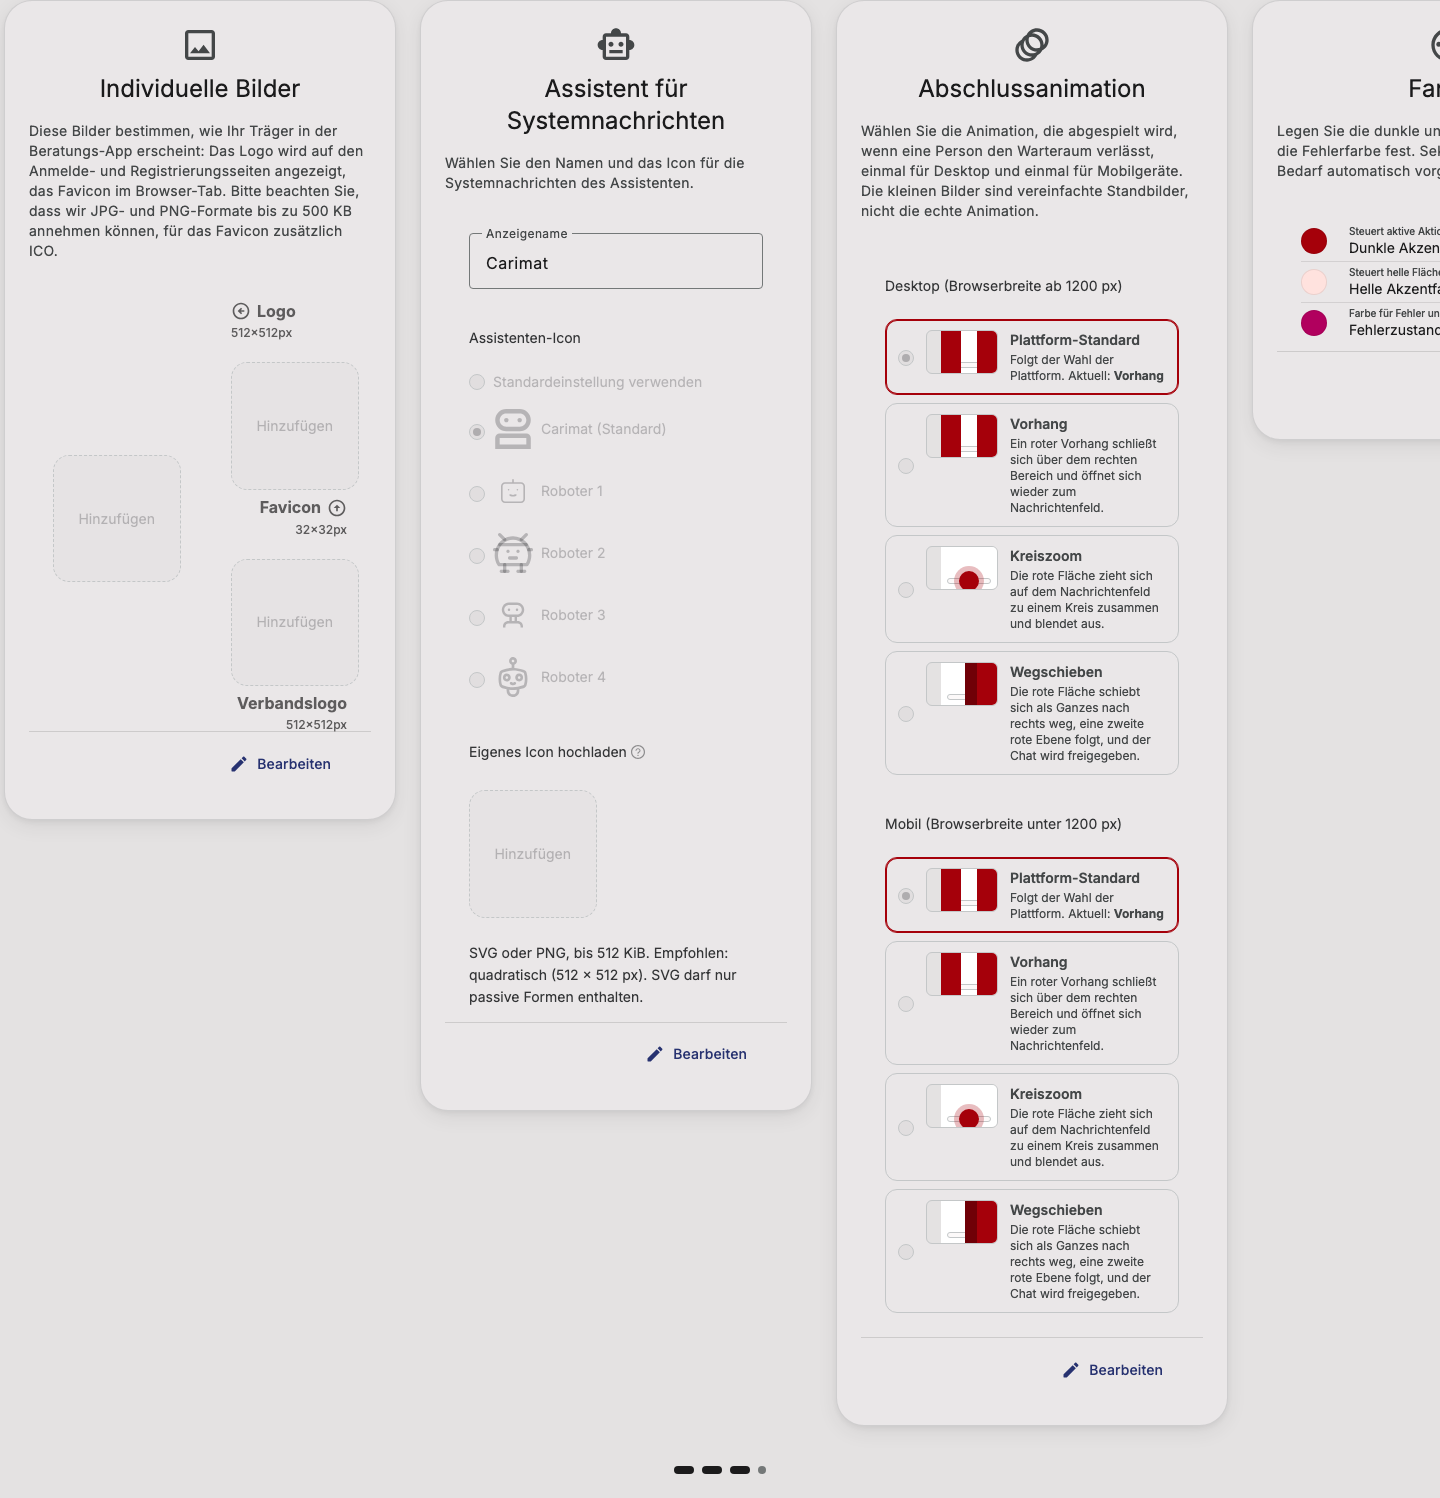
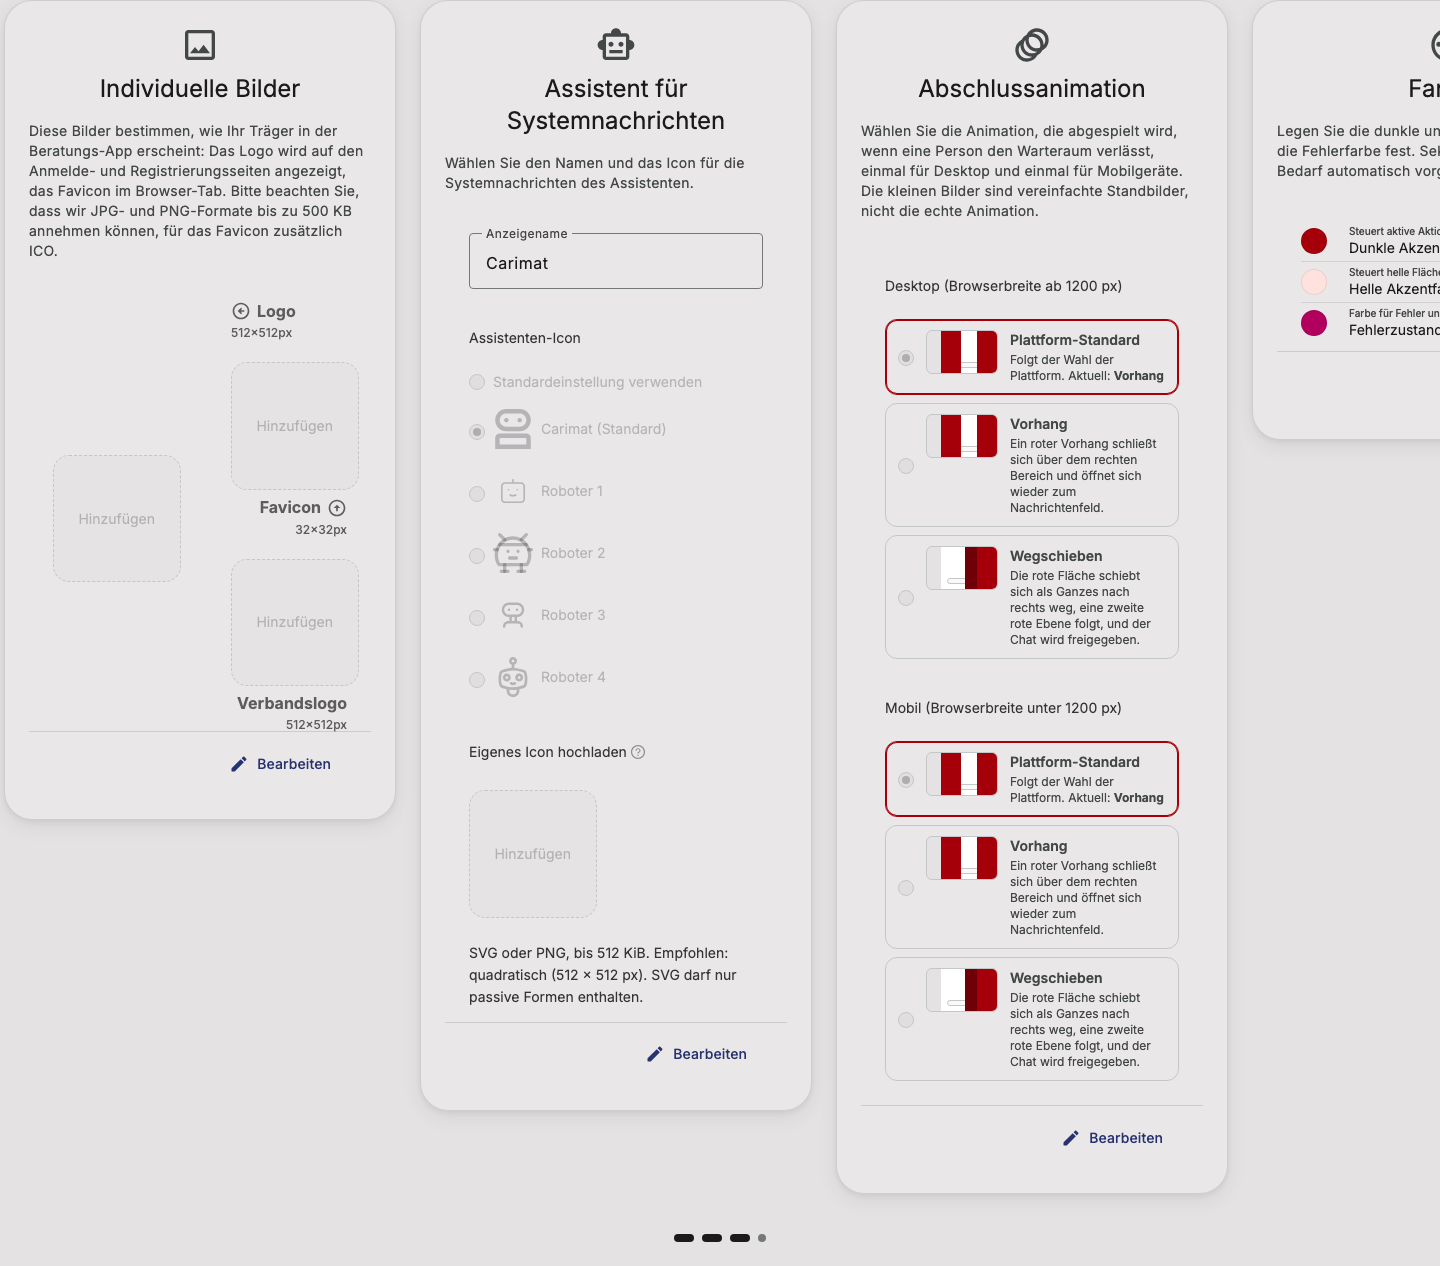
fix(appearance): drop the circle-zoom design from the closing-animation card (ORISO-Frontend#1737)
The design is gone from the frontend and the service, so the card offers
Platform default, Curtain and Slide reveal only. A tenant that still has
CIRCLE_ZOOM stored shows as Platform default and is left alone unless the
administrator changes that device. Strings removed in all seven locales,
stories and tests updated (a regression test covers the stored former
design), the three "after" screenshots re-shot.

diff --git a/src/components/Tenants/GeneralSettings/components/ClosingAnimation/index.test.tsx b/src/components/Tenants/GeneralSettings/components/ClosingAnimation/index.test.tsx
@@ -59,23 +59,21 @@ const inheritedAs = (desktop: Choice, mobile: Choice, id = 1) => {
 };
 
 describe('closing animation Appearance card', () => {
-    it('offers one choice for desktop and one for mobile: the platform default plus the three designs', () => {
+    it('offers one choice for desktop and one for mobile: the platform default plus the two designs', () => {
         render(<ClosingAnimation tenantId="1" />);
         expect(screen.getAllByRole('radiogroup')).toHaveLength(2);
         (['desktop', 'mobile'] as const).forEach((device) => {
             const radios = within(group(device)).getAllByRole('radio') as HTMLInputElement[];
-            expect(radios.map((radio) => radio.value)).toEqual(['', 'CURTAIN', 'CIRCLE_ZOOM', 'SLIDE_REVEAL']);
-            expect(
-                ['inherit', 'design.CURTAIN', 'design.CIRCLE_ZOOM', 'design.SLIDE_REVEAL'].map((label) =>
-                    choice(device, label),
-                ),
-            ).toEqual(radios);
+            expect(radios.map((radio) => radio.value)).toEqual(['', 'CURTAIN', 'SLIDE_REVEAL']);
+            expect(['inherit', 'design.CURTAIN', 'design.SLIDE_REVEAL'].map((label) => choice(device, label))).toEqual(
+                radios,
+            );
         });
     });
 
     it('describes every design in words, so the choice does not rest on a picture alone', () => {
         render(<ClosingAnimation tenantId="1" />);
-        (['CURTAIN', 'CIRCLE_ZOOM', 'SLIDE_REVEAL'] as const).forEach((design) => {
+        (['CURTAIN', 'SLIDE_REVEAL'] as const).forEach((design) => {
             expect(choice('desktop', `design.${design}`)).toHaveAccessibleDescription(
                 key(`design.${design}.description`),
             );
@@ -85,7 +83,7 @@ describe('closing animation Appearance card', () => {
     it('exposes nothing but the two choices: no toggle, text field, duration or colour', () => {
         const { container } = render(<ClosingAnimation tenantId="1" />);
         edit();
-        expect(screen.getAllByRole('radio')).toHaveLength(8);
+        expect(screen.getAllByRole('radio')).toHaveLength(6);
         ['checkbox', 'switch', 'textbox', 'spinbutton', 'slider', 'combobox'].forEach((role) => {
             expect(screen.queryAllByRole(role)).toEqual([]);
         });
@@ -93,10 +91,10 @@ describe('closing animation Appearance card', () => {
     });
 
     it('selects what the tenant stored for each device', () => {
-        fixtures.own = { closingAnimationDesktop: 'SLIDE_REVEAL', closingAnimationMobile: 'CIRCLE_ZOOM' };
+        fixtures.own = { closingAnimationDesktop: 'SLIDE_REVEAL', closingAnimationMobile: 'CURTAIN' };
         render(<ClosingAnimation tenantId="1" />);
         expect(choice('desktop', 'design.SLIDE_REVEAL')).toBeChecked();
-        expect(choice('mobile', 'design.CIRCLE_ZOOM')).toBeChecked();
+        expect(choice('mobile', 'design.CURTAIN')).toBeChecked();
         expect(choice('desktop', 'inherit')).not.toBeChecked();
         expect(choice('mobile', 'inherit')).not.toBeChecked();
     });
@@ -108,24 +106,32 @@ describe('closing animation Appearance card', () => {
         expect(choice('mobile', 'inherit')).toBeChecked();
     });
 
+    it('reads a stored design that no longer exists (circle zoom) as the platform default', () => {
+        fixtures.own = { closingAnimationDesktop: 'CIRCLE_ZOOM', closingAnimationMobile: 'CIRCLE_ZOOM' };
+        render(<ClosingAnimation tenantId="1" />);
+        (['desktop', 'mobile'] as const).forEach((device) => {
+            expect(choice(device, 'inherit')).toBeChecked();
+        });
+    });
+
     it('shows the design the platform tenant has chosen, per device, next to the platform default', () => {
-        inheritedAs('CIRCLE_ZOOM', 'SLIDE_REVEAL');
+        inheritedAs('SLIDE_REVEAL', 'CURTAIN');
         render(<ClosingAnimation tenantId="1" />);
         expect(choice('desktop', 'inherit')).toHaveAccessibleDescription(
-            `${key('inherit.description')} ${key('inherit.current')} ${key('design.CIRCLE_ZOOM')}`,
+            `${key('inherit.description')} ${key('inherit.current')} ${key('design.SLIDE_REVEAL')}`,
         );
         expect(choice('mobile', 'inherit')).toHaveAccessibleDescription(
-            `${key('inherit.description')} ${key('inherit.current')} ${key('design.SLIDE_REVEAL')}`,
+            `${key('inherit.description')} ${key('inherit.current')} ${key('design.CURTAIN')}`,
         );
     });
 
     it('never presents the tenant’s own design as the platform’s: the effective read already contains it', () => {
-        fixtures.own = { closingAnimationDesktop: 'SLIDE_REVEAL' };
-        inheritedAs('SLIDE_REVEAL', 'CIRCLE_ZOOM');
+        fixtures.own = { closingAnimationDesktop: 'CURTAIN' };
+        inheritedAs('CURTAIN', 'SLIDE_REVEAL');
         render(<ClosingAnimation tenantId="1" />);
         expect(choice('desktop', 'inherit')).toHaveAccessibleDescription(key('inherit.description'));
         expect(choice('mobile', 'inherit')).toHaveAccessibleDescription(
-            expect.stringContaining(key('design.CIRCLE_ZOOM')),
+            expect.stringContaining(key('design.SLIDE_REVEAL')),
         );
     });
 
@@ -150,10 +156,10 @@ describe('closing animation Appearance card', () => {
     it('sends only the chosen field, so the other device and the rest of the tenant stay untouched', async () => {
         render(<ClosingAnimation tenantId="1" />);
         edit();
-        fireEvent.click(choice('desktop', 'design.CIRCLE_ZOOM'));
+        fireEvent.click(choice('desktop', 'design.SLIDE_REVEAL'));
         saveChanges();
         await waitFor(() => expect(save).toHaveBeenCalledTimes(1));
-        expect(save.mock.calls[0][0]).toEqual({ theming: { closingAnimationDesktop: 'CIRCLE_ZOOM' } });
+        expect(save.mock.calls[0][0]).toEqual({ theming: { closingAnimationDesktop: 'SLIDE_REVEAL' } });
     });
 
     it('sends both fields when both devices change', async () => {
@@ -169,7 +175,7 @@ describe('closing animation Appearance card', () => {
     });
 
     it('sends null when the administrator goes back to the platform default', async () => {
-        fixtures.own = { closingAnimationDesktop: 'CURTAIN', closingAnimationMobile: 'CIRCLE_ZOOM' };
+        fixtures.own = { closingAnimationDesktop: 'CURTAIN', closingAnimationMobile: 'SLIDE_REVEAL' };
         render(<ClosingAnimation tenantId="1" />);
         edit();
         fireEvent.click(choice('desktop', 'inherit'));
@@ -209,7 +215,7 @@ describe('closing animation Appearance card', () => {
     it('keeps a restricted Appearance card read-only: no edit button, both groups disabled', () => {
         render(<ClosingAnimation tenantId="1" readOnly />);
         expect(screen.queryByRole('button', { name: 'edit' })).toBeNull();
-        expect(screen.getAllByRole('radio')).toHaveLength(8);
+        expect(screen.getAllByRole('radio')).toHaveLength(6);
         expect(screen.getAllByRole('radio').every((radio) => (radio as HTMLInputElement).disabled)).toBe(true);
     });
 

diff --git a/src/components/Tenants/GeneralSettings/components/ClosingAnimation/ClosingAnimation.stories.tsx b/src/components/Tenants/GeneralSettings/components/ClosingAnimation/ClosingAnimation.stories.tsx
@@ -10,7 +10,7 @@ import { baseTenantPublicEndpoint, tenantAdminEndpoint } from '../../../../../ap
 
 const storageKey = 'storybook:closing-animation-1737';
 /** What the platform tenant has chosen: a tenant that stores nothing inherits exactly this. */
-const platform = { closingAnimationDesktop: 'SLIDE_REVEAL', closingAnimationMobile: 'CIRCLE_ZOOM' };
+const platform = { closingAnimationDesktop: 'SLIDE_REVEAL', closingAnimationMobile: 'CURTAIN' };
 const baseTenant = {
     id: 1,
     name: 'Example organisation',
@@ -60,9 +60,9 @@ const Harness = ({ readOnly = false }: { readOnly?: boolean }) => {
 
 /**
  * The administrator's closing-animation choice: one design for desktop and one for mobile, each
- * "Platform default" or one of three designs. The mock answers like TenantService: the admin read
+ * "Platform default" or one of two designs. The mock answers like TenantService: the admin read
  * returns only what the tenant stored, the public read adds the platform tenant's value
- * (desktop Slide reveal, mobile Circle zoom). Check it at Phone 390 and Desktop 1440.
+ * (desktop Slide reveal, mobile Curtain). Check it at Phone 390 and Desktop 1440.
  */
 const meta = {
     title: 'Organisms/Tenants/ClosingAnimation',
@@ -95,7 +95,6 @@ const DESKTOP = /Desktop/i;
 const MOBILE = /Mobile|Mobil/i;
 const PLATFORM_DEFAULT = /Platform default|Plattform-Standard/i;
 const CURTAIN = /^(Curtain|Vorhang)$/i;
-const CIRCLE_ZOOM = /^(Circle zoom|Kreiszoom)$/i;
 const SLIDE_REVEAL = /^(Slide reveal|Wegschieben)$/i;
 /** Re-reads the group on every try, because the card remounts when the saved tenant arrives. */
 const checkedIn = (canvas: ReturnType<typeof within>, device: RegExp, name: RegExp) =>
@@ -115,10 +114,10 @@ export const InheritsPlatformValue: Story = {
             ),
         );
         await expect(mobile.getByRole('radio', { name: PLATFORM_DEFAULT })).toHaveAccessibleDescription(
-            /Circle zoom|Kreiszoom/,
+            /Curtain|Vorhang/,
         );
         // The card is a read-only view until the pencil is pressed.
-        await expect(canvas.getAllByRole('radio')).toHaveLength(8);
+        await expect(canvas.getAllByRole('radio')).toHaveLength(6);
         await expect(desktop.getByRole('radio', { name: CURTAIN })).toBeDisabled();
     },
 };
@@ -128,20 +127,20 @@ export const SaveAndReload: Story = {
     play: async ({ canvasElement }) => {
         const canvas = within(canvasElement);
         await userEvent.click(await canvas.findByRole('button', { name: /Edit|Bearbeiten/i }));
-        // Desktop by keyboard only: Platform default -> Curtain -> Circle zoom.
+        // Desktop by keyboard only: Platform default -> Curtain -> Slide reveal.
         const desktop = await groupOf(canvas, DESKTOP);
         desktop.getByRole('radio', { name: PLATFORM_DEFAULT }).focus();
         await userEvent.keyboard('{ArrowDown}{ArrowDown}');
-        await expect(desktop.getByRole('radio', { name: CIRCLE_ZOOM })).toBeChecked();
+        await expect(desktop.getByRole('radio', { name: SLIDE_REVEAL })).toBeChecked();
         // Mobile by pointer.
         const mobile = await groupOf(canvas, MOBILE);
-        await userEvent.click(mobile.getByRole('radio', { name: SLIDE_REVEAL }));
+        await userEvent.click(mobile.getByRole('radio', { name: CURTAIN }));
         await userEvent.click(canvas.getByRole('button', { name: /Save|Speichern/i }));
-        await waitFor(() => expect(stored().theming.closingAnimationDesktop).toBe('CIRCLE_ZOOM'));
-        expect(stored().theming.closingAnimationMobile).toBe('SLIDE_REVEAL');
+        await waitFor(() => expect(stored().theming.closingAnimationDesktop).toBe('SLIDE_REVEAL'));
+        expect(stored().theming.closingAnimationMobile).toBe('CURTAIN');
         // After the save the card shows what is stored.
-        await checkedIn(canvas, DESKTOP, CIRCLE_ZOOM);
-        await checkedIn(canvas, MOBILE, SLIDE_REVEAL);
+        await checkedIn(canvas, DESKTOP, SLIDE_REVEAL);
+        await checkedIn(canvas, MOBILE, CURTAIN);
     },
 };
 
@@ -166,10 +165,10 @@ export const BackToPlatformDefault: Story = {
 /** A tenant admin without the Appearance permission sees the choice but cannot change it. */
 export const ReadOnly: Story = {
     args: { readOnly: true },
-    beforeEach: own({ closingAnimationDesktop: 'CIRCLE_ZOOM' }),
+    beforeEach: own({ closingAnimationDesktop: 'SLIDE_REVEAL' }),
     play: async ({ canvasElement }) => {
         const canvas = within(canvasElement);
-        await checkedIn(canvas, DESKTOP, CIRCLE_ZOOM);
+        await checkedIn(canvas, DESKTOP, SLIDE_REVEAL);
         await expect(canvas.queryByRole('button', { name: /Edit|Bearbeiten/i })).toBeNull();
         canvas.getAllByRole('radio').forEach((radio) => expect(radio).toBeDisabled());
     },

diff --git a/src/locales/closingAnimation.keys.test.ts b/src/locales/closingAnimation.keys.test.ts
@@ -9,7 +9,7 @@ const loadLocale = async (language: string) =>
 const expectedKeys = Object.keys(en).sort();
 
 describe('closing animation wording', () => {
-    it('defines the card title, the two device groups, the platform default and all three designs', () => {
+    it('defines the card title, the two device groups, the platform default and both designs', () => {
         expect(expectedKeys).toEqual(
             [
                 'settings.closingAnimation.title',
@@ -21,8 +21,6 @@ describe('closing animation wording', () => {
                 'settings.closingAnimation.inherit.current',
                 'settings.closingAnimation.design.CURTAIN',
                 'settings.closingAnimation.design.CURTAIN.description',
-                'settings.closingAnimation.design.CIRCLE_ZOOM',
-                'settings.closingAnimation.design.CIRCLE_ZOOM.description',
                 'settings.closingAnimation.design.SLIDE_REVEAL',
                 'settings.closingAnimation.design.SLIDE_REVEAL.description',
                 'settings.closingAnimation.loadError',
@@ -49,7 +47,6 @@ describe('closing animation wording', () => {
 
     it('registers the English source strings', async () => {
         await i18n.changeLanguage('en');
-        expect(i18n.t('settings.closingAnimation.design.CIRCLE_ZOOM')).toBe('Circle zoom');
         expect(i18n.t('settings.closingAnimation.design.SLIDE_REVEAL')).toBe('Slide reveal');
         expect(i18n.t('settings.closingAnimation.design.CURTAIN')).toBe('Curtain');
     });

diff --git a/src/utils/mergeTenantAdminData.test.ts b/src/utils/mergeTenantAdminData.test.ts
@@ -152,12 +152,12 @@ describe('closing animation updates', () => {
     it('writes a chosen design for one device and leaves the other device as stored', () => {
         const current = baseTenantAdminData();
         current.theming.closingAnimationDesktop = 'CURTAIN';
-        current.theming.closingAnimationMobile = 'SLIDE_REVEAL';
+        current.theming.closingAnimationMobile = 'CURTAIN';
         const saved = JSON.parse(
-            serializeTenantAdminDataUpdate(current, { theming: { closingAnimationDesktop: 'CIRCLE_ZOOM' } }),
+            serializeTenantAdminDataUpdate(current, { theming: { closingAnimationDesktop: 'SLIDE_REVEAL' } }),
         );
-        expect(saved.theming.closingAnimationDesktop).toBe('CIRCLE_ZOOM');
-        expect(saved.theming.closingAnimationMobile).toBe('SLIDE_REVEAL');
+        expect(saved.theming.closingAnimationDesktop).toBe('SLIDE_REVEAL');
+        expect(saved.theming.closingAnimationMobile).toBe('CURTAIN');
     });
     it('keeps an explicit null in the full PUT, so the platform value is inherited again', () => {
         const current = baseTenantAdminData();

diff --git a/src/components/Tenants/GeneralSettings/components/ClosingAnimation/styles.module.scss b/src/components/Tenants/GeneralSettings/components/ClosingAnimation/styles.module.scss
@@ -134,21 +134,6 @@ $red-rear: color-mix(in srgb, #{$red} 68%, #000000);
     }
 }
 
-// Circle zoom: the red surface has shrunk to a circle on the message field.
-.preview[data-design='CIRCLE_ZOOM'] {
-    .layerA {
-        bottom: -2px;
-        left: 50%;
-        display: block;
-        width: 20px;
-        height: 20px;
-        border-radius: 50%;
-        background: $red;
-        box-shadow: 0 0 0 5px color-mix(in srgb, #{$red} 26%, transparent);
-        transform: translateX(-50%);
-    }
-}
-
 // Slide reveal: the front red area leads to the right, a second darker layer follows behind it.
 .preview[data-design='SLIDE_REVEAL'] {
     .layerA,

diff --git a/src/utils/closingAnimation.ts b/src/utils/closingAnimation.ts
@@ -1,9 +1,9 @@
 /**
- * The three closing animations an administrator can pick for a waiting room (ORISO-Frontend#1737).
+ * The closing animations an administrator can pick for a waiting room (ORISO-Frontend#1737).
  * The names are the contract with TenantService (`theming.closingAnimationDesktop|Mobile`); they are
  * stored as-is, so never rename one here without changing the service.
  */
-export const CLOSING_ANIMATIONS = ['CURTAIN', 'CIRCLE_ZOOM', 'SLIDE_REVEAL'] as const;
+export const CLOSING_ANIMATIONS = ['CURTAIN', 'SLIDE_REVEAL'] as const;
 
 export type ClosingAnimation = (typeof CLOSING_ANIMATIONS)[number];
 

diff --git a/src/utils/mapTenantDataToTenantAdminData.test.ts b/src/utils/mapTenantDataToTenantAdminData.test.ts
@@ -30,12 +30,12 @@ describe('mapTenantDataToTenantAdminData', () => {
             ...baseTenantData(),
             theming: {
                 ...baseTenantData().theming,
-                closingAnimationDesktop: 'CIRCLE_ZOOM',
+                closingAnimationDesktop: 'SLIDE_REVEAL',
                 closingAnimationMobile: null,
             },
         });
 
-        expect(mapped.theming.closingAnimationDesktop).toBe('CIRCLE_ZOOM');
+        expect(mapped.theming.closingAnimationDesktop).toBe('SLIDE_REVEAL');
         expect(mapped.theming.closingAnimationMobile).toBeNull();
     });
 
